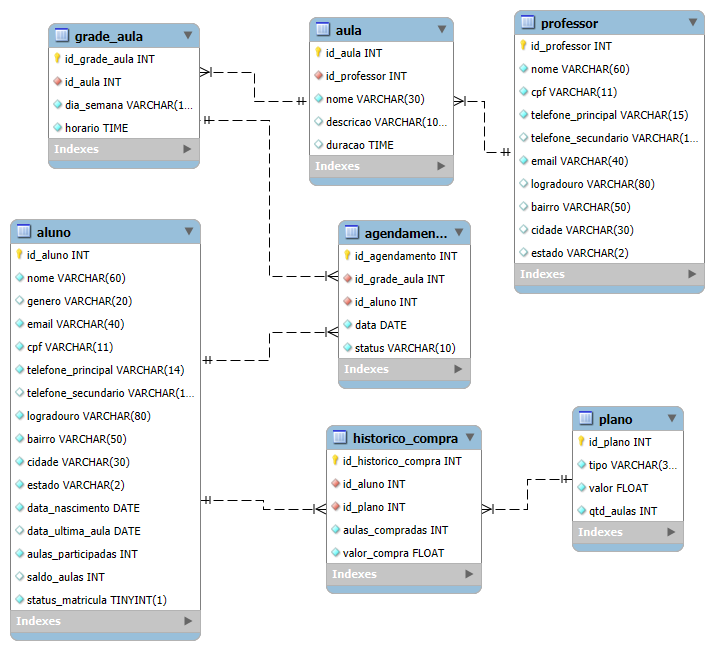
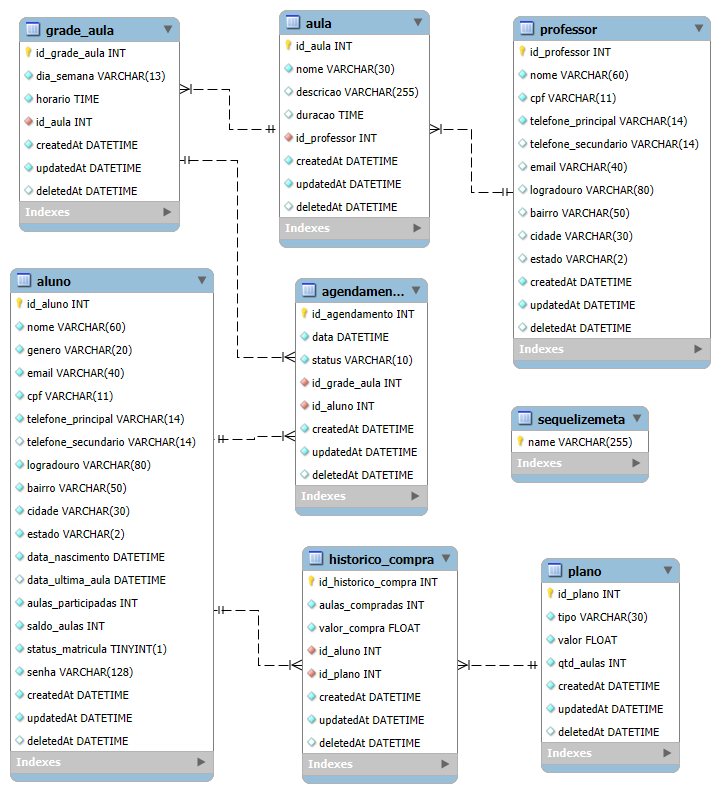
adicionei o campo 'senha' em aluno e professor para implementar o sistema de autenticação | organizei a identação nas migrações

diff --git a/src/database/migrations/20241012181531-create-aluno.js b/src/database/migrations/20241012181531-create-aluno.js
@@ -9,59 +9,25 @@ module.exports = {
         primaryKey: true,
         type: Sequelize.INTEGER
       },
-      nome: {
-        type: Sequelize.STRING
-      },
-      genero: {
-        type: Sequelize.STRING
-      },
-      email: {
-        type: Sequelize.STRING
-      },
-      cpf: {
-        type: Sequelize.STRING
-      },
-      telefone_principal: {
-        type: Sequelize.STRING
-      },
-      telefone_secundario: {
-        type: Sequelize.STRING
-      },
-      logradouro: {
-        type: Sequelize.STRING
-      },
-      bairro: {
-        type: Sequelize.STRING
-      },
-      cidade: {
-        type: Sequelize.STRING
-      },
-      estado: {
-        type: Sequelize.STRING
-      },
-      data_nascimento: {
-        type: Sequelize.DATE
-      },
-      data_ultima_aula: {
-        type: Sequelize.DATE
-      },
-      aulas_participadas: {
-        type: Sequelize.INTEGER
-      },
-      saldo_aulas: {
-        type: Sequelize.INTEGER
-      },
-      status_matricula: {
-        type: Sequelize.STRING
-      },
-      createdAt: {
-        allowNull: false,
-        type: Sequelize.DATE
-      },
-      updatedAt: {
-        allowNull: false,
-        type: Sequelize.DATE
-      }
+      nome: { type: Sequelize.STRING(60), allowNull: false },
+      genero: { type: Sequelize.STRING(20), allowNull: false },
+      email: { type: Sequelize.STRING(40), allowNull: false },
+      cpf: { type: Sequelize.STRING(11), allowNull: false },
+      telefone_principal: { type: Sequelize.STRING(14), allowNull: false },
+      telefone_secundario: { type: Sequelize.STRING(14), allowNull: true },
+      logradouro: { type: Sequelize.STRING(80), allowNull: false },
+      bairro: { type: Sequelize.STRING(50), allowNull: false },
+      cidade: { type: Sequelize.STRING(30), allowNull: false },
+      estado: { type: Sequelize.STRING(2), allowNull: false },
+      data_nascimento: { type: Sequelize.DATE, allowNull: false },
+      data_ultima_aula: { type: Sequelize.DATE, allowNull: true },
+      aulas_participadas: { type: Sequelize.INTEGER, allowNull: false },
+      saldo_aulas: { type: Sequelize.INTEGER, allowNull: false },
+      status_matricula: { type: Sequelize.BOOLEAN, allowNull: false },
+      senha: { type: Sequelize.STRING(128), allowNull: false},
+      createdAt: { type: Sequelize.DATE, allowNull: false },
+      updatedAt: { type: Sequelize.DATE, allowNull: false },
+      deletedAt: { type: Sequelize.DATE, allowNull: true }
     });
   },
   async down(queryInterface, Sequelize) {

diff --git a/src/database/migrations/20241011202900-create-professor.js b/src/database/migrations/20241011202900-create-professor.js
@@ -7,43 +7,20 @@ module.exports = {
         allowNull: false,
         autoIncrement: true,
         primaryKey: true,
-        type: Sequelize.INTEGER
-      },
-      nome: {
-        type: Sequelize.STRING
-      },
-      cpf: {
-        type: Sequelize.STRING
-      },
-      telefone_principal: {
-        type: Sequelize.STRING
-      },
-      telefone_secundario: {
-        type: Sequelize.STRING
-      },
-      email: {
-        type: Sequelize.STRING
-      },
-      logradouro: {
-        type: Sequelize.STRING
-      },
-      bairro: {
-        type: Sequelize.STRING
-      },
-      cidade: {
-        type: Sequelize.STRING
-      },
-      estado: {
-        type: Sequelize.STRING
-      },
-      createdAt: {
-        allowNull: false,
-        type: Sequelize.DATE
-      },
-      updatedAt: {
-        allowNull: false,
-        type: Sequelize.DATE
-      }
+        type: Sequelize.INTEGER },
+      nome: { type: Sequelize.STRING(60), allowNull: false },
+      cpf: { type: Sequelize.STRING(11), allowNull: false },
+      telefone_principal: { type: Sequelize.STRING(14), allowNull: false },
+      telefone_secundario: { type: Sequelize.STRING(14), allowNull: true },
+      email: { type: Sequelize.STRING(40), allowNull: true },
+      logradouro: { type: Sequelize.STRING(80), allowNull: true },
+      bairro: { type: Sequelize.STRING(50), allowNull: true },
+      cidade: { type: Sequelize.STRING(30), allowNull: true },
+      estado: { type: Sequelize.STRING(2), allowNull: true },
+      senha: { type: Sequelize.STRING(128), allowNull: false},
+      createdAt: { type: Sequelize.DATE, allowNull: false },
+      updatedAt: { type: Sequelize.DATE, allowNull: false },
+      deletedAt: { type: Sequelize.DATE, allowNull: true }
     });
   },
   async down(queryInterface, Sequelize) {

diff --git a/src/database/migrations/20241012181859-create-agendamento.js b/src/database/migrations/20241012181859-create-agendamento.js
@@ -7,32 +7,20 @@ module.exports = {
         allowNull: false,
         autoIncrement: true,
         primaryKey: true,
-        type: Sequelize.INTEGER
-      },
-      data: {
-        type: Sequelize.DATE
-      },
-      status: {
-        type: Sequelize.STRING
-      },
+        type: Sequelize.INTEGER },
+      data: { type: Sequelize.DATE, allowNull: false },
+      status: { type: Sequelize.STRING(10), allowNull: false },
       id_grade_aula: {
         allowNull: false,
         type: Sequelize.INTEGER,
-        references: { model: 'grade_aula', key: 'id_grade_aula'  }
-      },
+        references: { model: 'grade_aula', key: 'id_grade_aula'  } },
       id_aluno: {
         allowNull: false,
         type: Sequelize.INTEGER,
-        references: { model: 'aluno', key: 'id_aluno'  }
-      },
-      createdAt: {
-        allowNull: false,
-        type: Sequelize.DATE
-      },
-      updatedAt: {
-        allowNull: false,
-        type: Sequelize.DATE
-      }
+        references: { model: 'aluno', key: 'id_aluno'  } },
+      createdAt: { type: Sequelize.DATE, allowNull: false },
+      updatedAt: { type: Sequelize.DATE, allowNull: false },
+      deletedAt: { type: Sequelize.DATE, allowNull: true }
     });
   },
   async down(queryInterface, Sequelize) {

diff --git a/src/database/migrations/20241011203616-create-aula.js b/src/database/migrations/20241011203616-create-aula.js
@@ -7,30 +7,17 @@ module.exports = {
         allowNull: false,
         autoIncrement: true,
         primaryKey: true,
-        type: Sequelize.INTEGER
-      },
-      nome: {
-        type: Sequelize.STRING
-      },
-      descricao: {
-        type: Sequelize.STRING
-      },
-      duracao: {
-        type: Sequelize.TIME
-      },
+        type: Sequelize.INTEGER },
+      nome: { type: Sequelize.STRING(30), allowNull: false},
+      descricao: { type: Sequelize.STRING(255), allowNull: true},
+      duracao: { type: Sequelize.TIME, allowNull: true},
       id_professor: {
-        allowNull: false,
         type: Sequelize.INTEGER,
-        references: { model: 'professor', key: 'id_professor'  }
-      },
-      createdAt: {
         allowNull: false,
-        type: Sequelize.DATE
-      },
-      updatedAt: {
-        allowNull: false,
-        type: Sequelize.DATE
-      }
+        references: { model: 'professor', key: 'id_professor'  } },
+      createdAt: { type: Sequelize.DATE, allowNull: false },
+      updatedAt: { type: Sequelize.DATE, allowNull: false },
+      deletedAt: { type: Sequelize.DATE, allowNull: true }
     });
   },
   async down(queryInterface, Sequelize) {

diff --git a/src/database/migrations/20241026021102-create-historico-compra.js b/src/database/migrations/20241026021102-create-historico-compra.js
@@ -9,30 +9,19 @@ module.exports = {
         primaryKey: true,
         type: Sequelize.INTEGER
       },
-      aulas_compradas: {
-        type: Sequelize.INTEGER
-      },
-      valor_compra: {
-        type: Sequelize.FLOAT
-      },
+      aulas_compradas: { type: Sequelize.INTEGER, allowNull: false },
+      valor_compra: { type: Sequelize.FLOAT, allowNull: false },
       id_aluno: {
         allowNull: false,
         type: Sequelize.INTEGER,
-        references: { model: 'aluno', key: 'id_aluno' },
-      },
+        references: { model: 'aluno', key: 'id_aluno' } },
       id_plano: {
         allowNull: false,
         type: Sequelize.INTEGER,
-        references: { model: 'plano', key: 'id_plano' },
-      },
-      createdAt: {
-        allowNull: false,
-        type: Sequelize.DATE
-      },
-      updatedAt: {
-        allowNull: false,
-        type: Sequelize.DATE
-      }
+        references: { model: 'plano', key: 'id_plano' } },
+      createdAt: { type: Sequelize.DATE, allowNull: false },
+      updatedAt: { type: Sequelize.DATE, allowNull: false },
+      deletedAt: { type: Sequelize.DATE, allowNull: true }
     });
   },
   async down(queryInterface, Sequelize) {

diff --git a/src/database/migrations/20241011204220-create-grade-aula.js b/src/database/migrations/20241011204220-create-grade-aula.js
@@ -7,27 +7,16 @@ module.exports = {
         allowNull: false,
         autoIncrement: true,
         primaryKey: true,
-        type: Sequelize.INTEGER
-      },
-      dia_semana: {
-        type: Sequelize.STRING
-      },
-      horario: {
-        type: Sequelize.TIME
-      },
+        type: Sequelize.INTEGER },
+      dia_semana: { type: Sequelize.STRING(13), allowNull: false },
+      horario: { type: Sequelize.TIME, allowNull: false },
       id_aula: {
         allowNull: false,
         type: Sequelize.INTEGER,
-        references: { model: 'aula', key: 'id_aula'  }
-      },
-      createdAt: {
-        allowNull: false,
-        type: Sequelize.DATE
-      },
-      updatedAt: {
-        allowNull: false,
-        type: Sequelize.DATE
-      }
+        references: { model: 'aula', key: 'id_aula'  } },
+      createdAt: { allowNull: false, type: Sequelize.DATE },
+      updatedAt: { allowNull: false, type: Sequelize.DATE },
+      deletedAt: { type: Sequelize.DATE, allowNull: true }
     });
   },
   async down(queryInterface, Sequelize) {

diff --git a/src/database/migrations/20241011202428-create-plano.js b/src/database/migrations/20241011202428-create-plano.js
@@ -7,25 +7,13 @@ module.exports = {
         allowNull: false,
         autoIncrement: true,
         primaryKey: true,
-        type: Sequelize.INTEGER
-      },
-      tipo: {
-        type: Sequelize.STRING
-      },
-      valor: {
-        type: Sequelize.FLOAT
-      },
-      qtd_aulas: {
-        type: Sequelize.INTEGER
-      },
-      createdAt: {
-        allowNull: false,
-        type: Sequelize.DATE
-      },
-      updatedAt: {
-        allowNull: false,
-        type: Sequelize.DATE
-      }
+        type: Sequelize.INTEGER },
+      tipo: { type: Sequelize.STRING(30), allowNull: false },
+      valor: { type: Sequelize.FLOAT, allowNull: false },
+      qtd_aulas: { type: Sequelize.INTEGER, allowNull: false },
+      createdAt: { type: Sequelize.DATE, allowNull: false },
+      updatedAt: { type: Sequelize.DATE, allowNull: false },
+      deletedAt: { type: Sequelize.DATE, allowNull: true }
     });
   },
   async down(queryInterface, Sequelize) {

diff --git a/src/database/models/aluno.js b/src/database/models/aluno.js
@@ -32,7 +32,6 @@ module.exports = (sequelize, DataTypes) => {
     cidade: DataTypes.STRING,
     estado: DataTypes.STRING,
     data_nascimento: DataTypes.DATE,
-    //data_adesao: DataTypes.DATE,
     data_ultima_aula: DataTypes.DATE,
     aulas_participadas: DataTypes.INTEGER,
     saldo_aulas: DataTypes.INTEGER,
